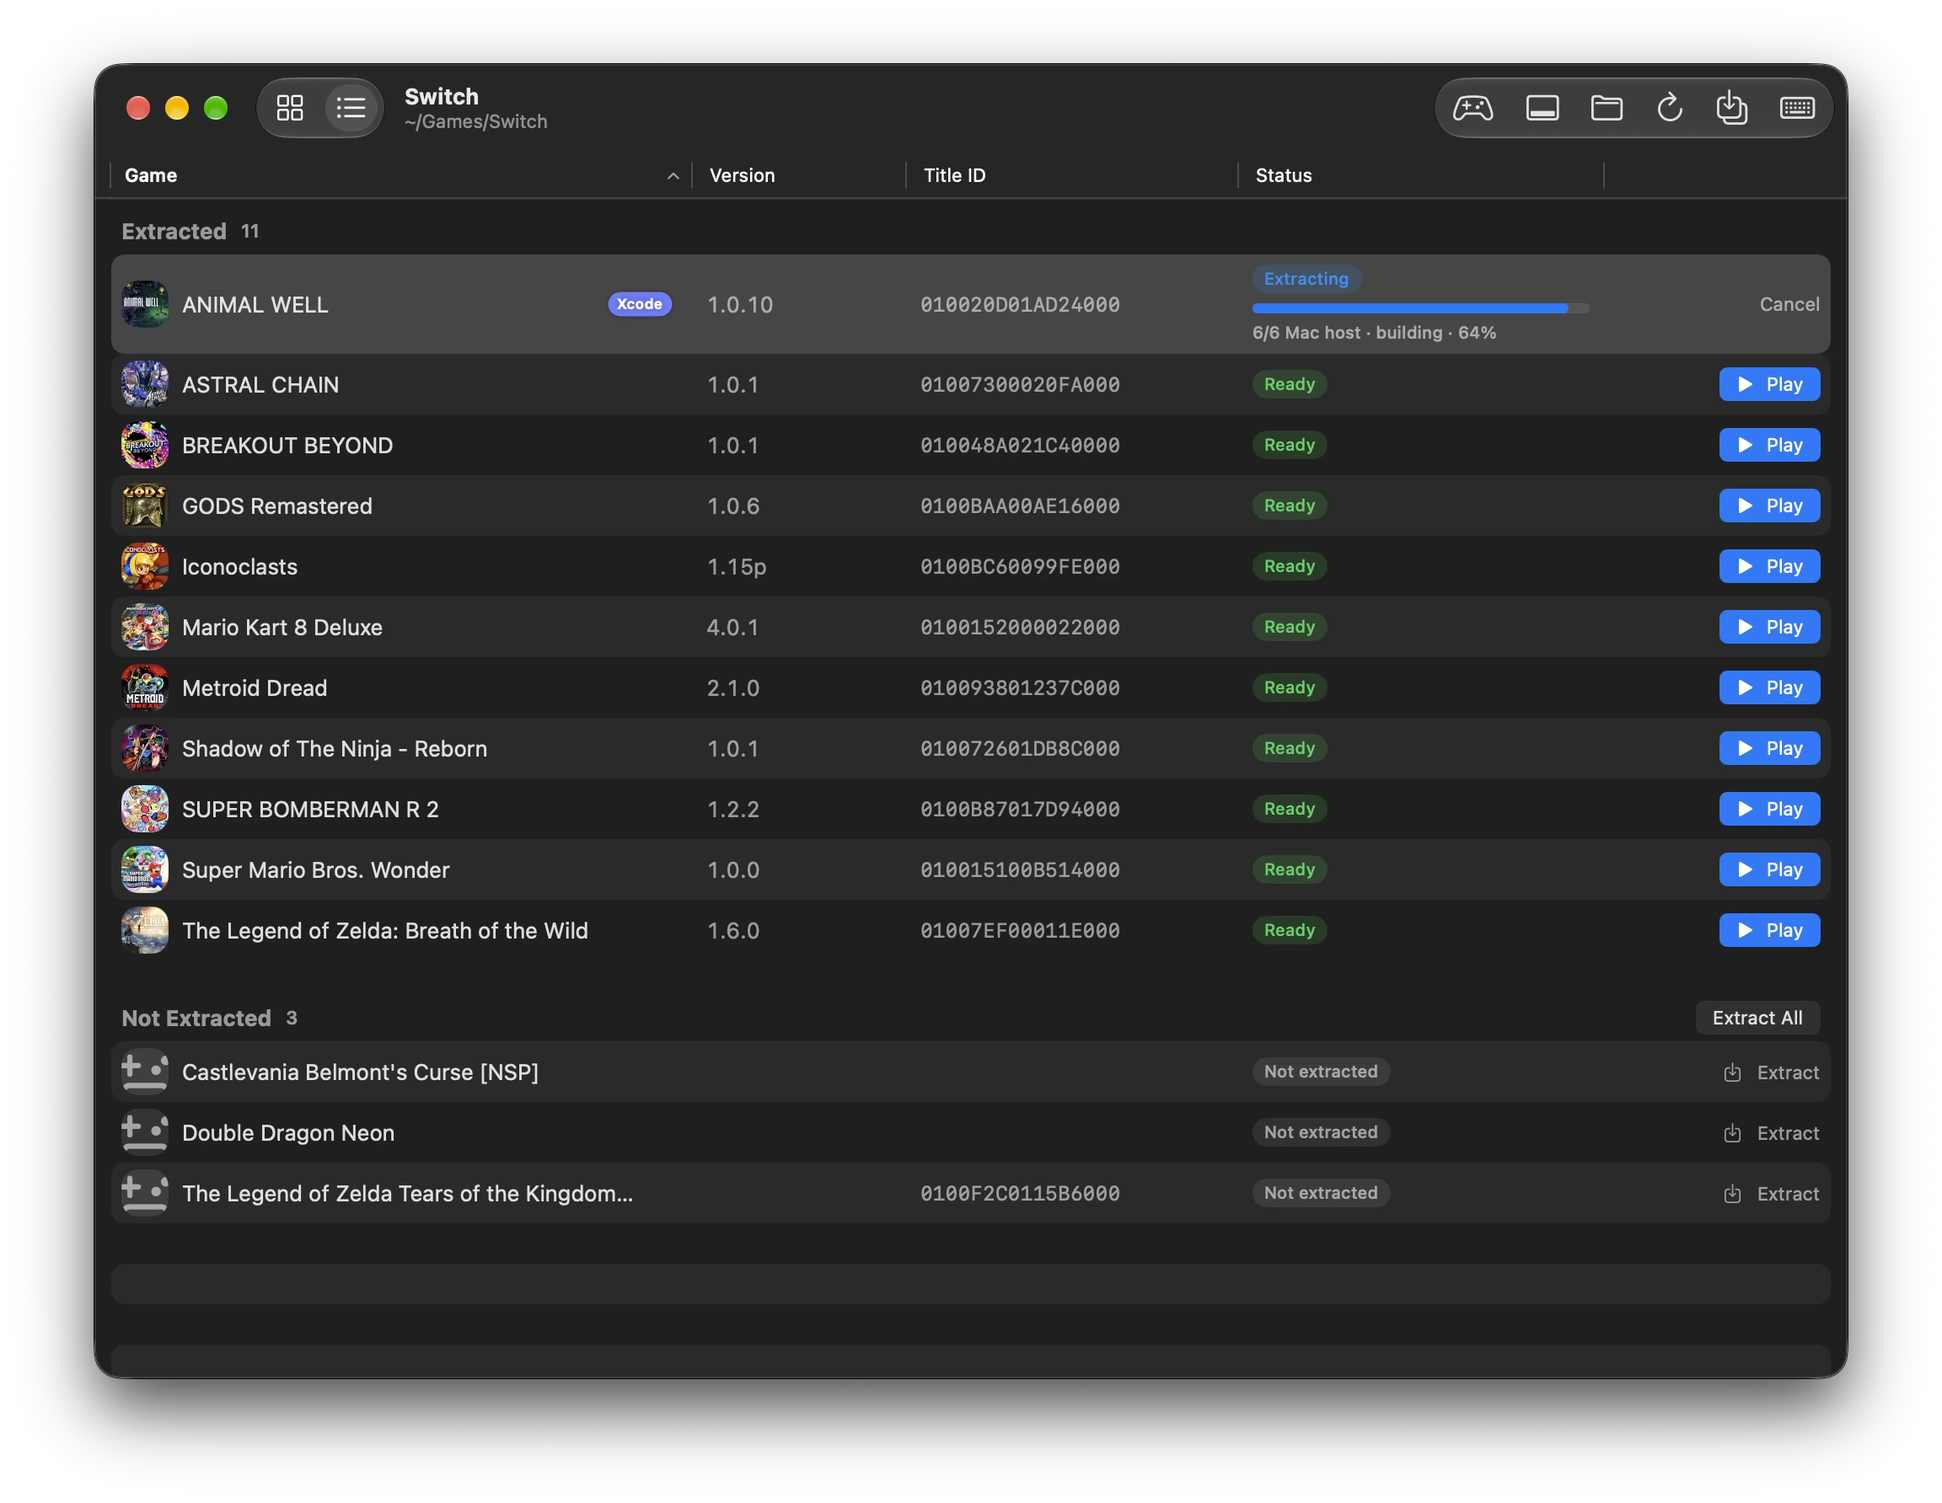
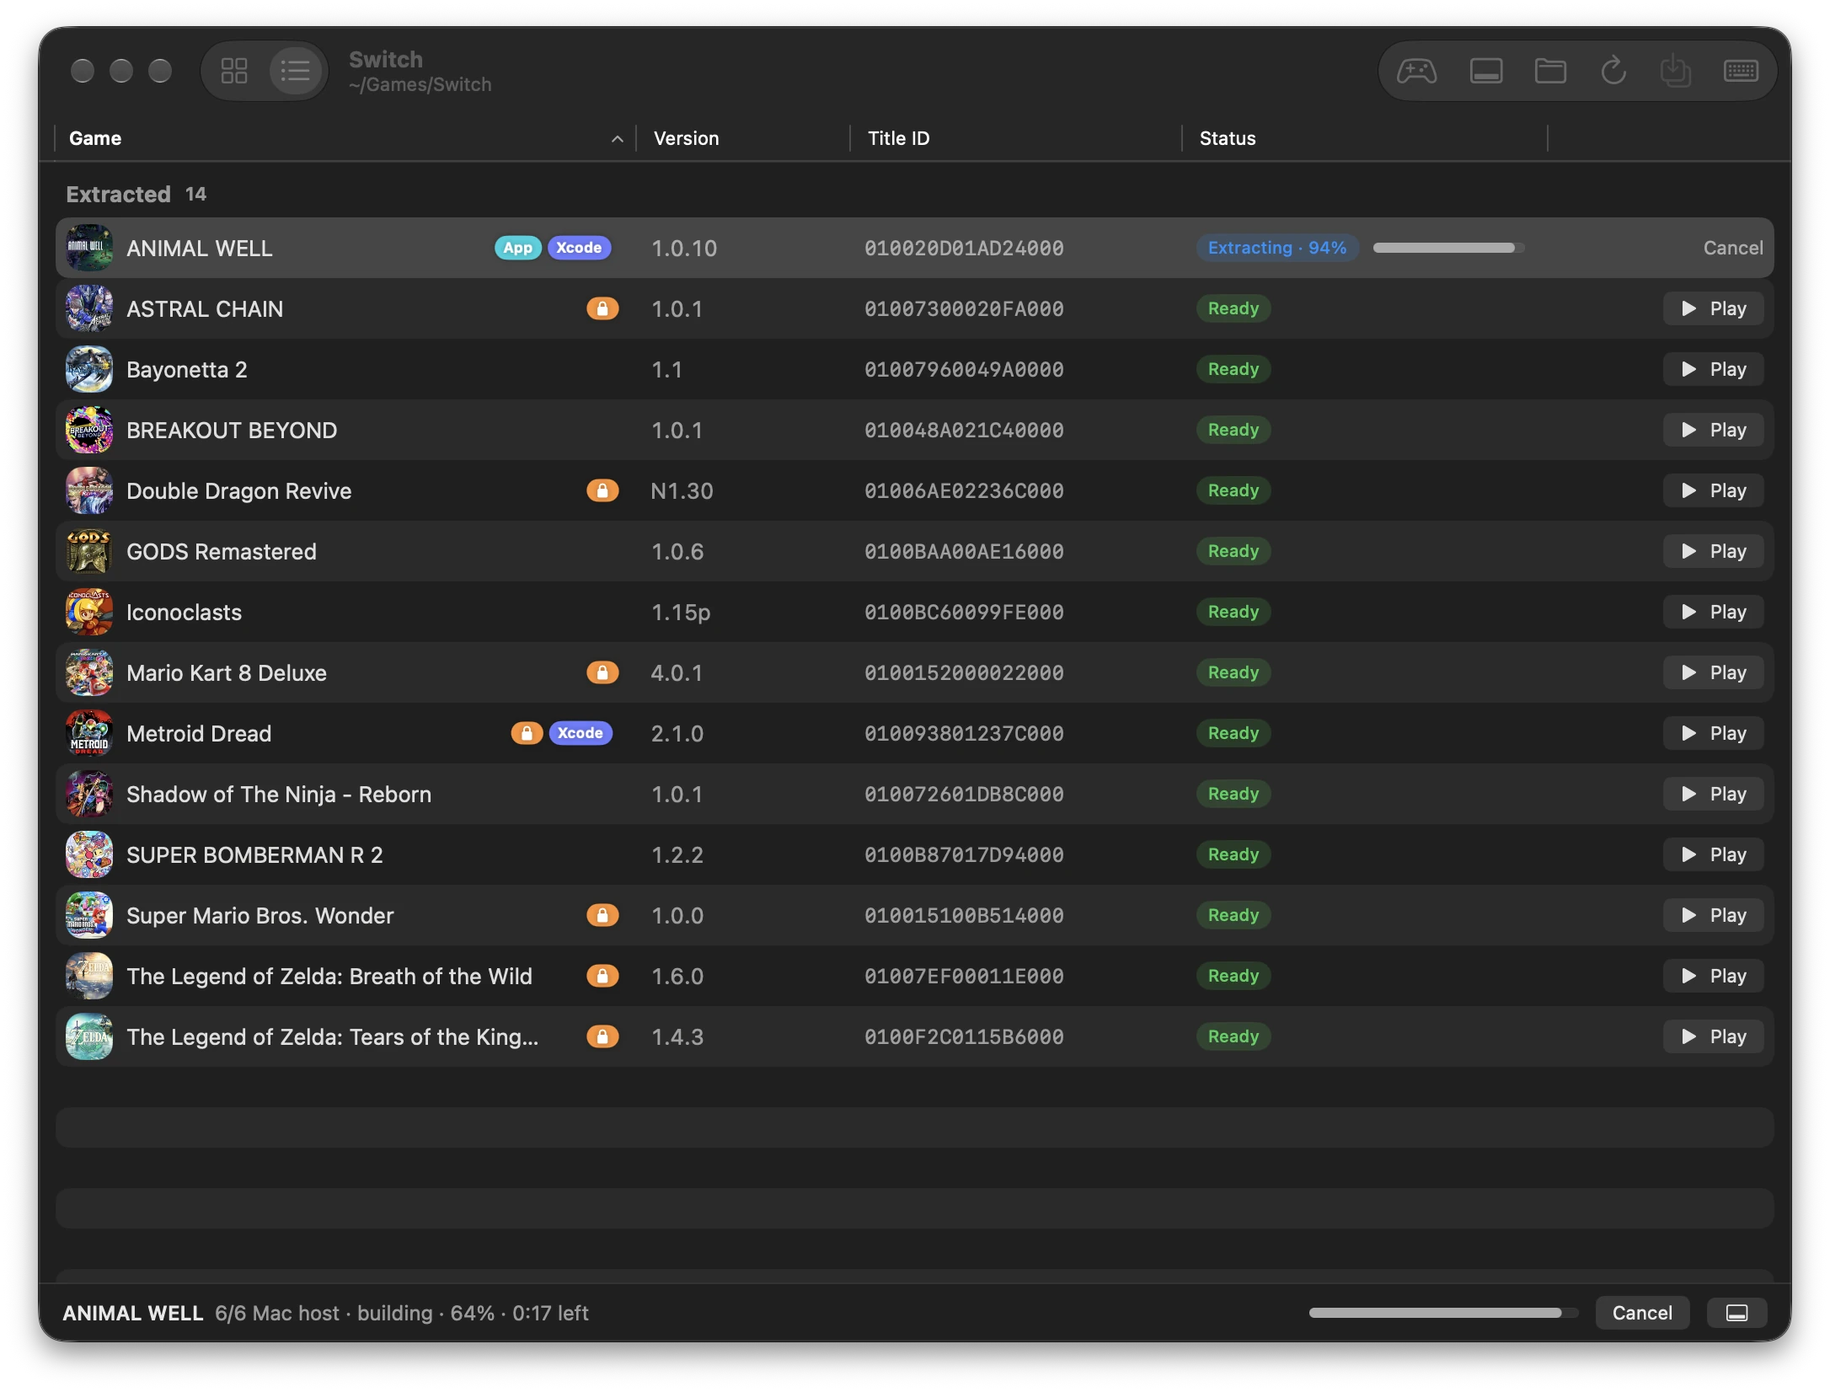
Show build progress without the log or taller cards
A build pushed its card's row down as the progress bar and stage text appeared, and with the log hidden there was no stage or time left to see at all. The bar now sits on the artwork with the percentage in the badge, and a status bar takes the log header's place while the log is hidden. That makes a hidden log a fine default for new players: a failure still opens it.

diff --git a/Packages/NXPlayKit/Sources/NXPlayKit/Views/GameCard.swift b/Packages/NXPlayKit/Sources/NXPlayKit/Views/GameCard.swift
@@ -10,6 +10,12 @@ struct GameCard: View {
         VStack(alignment: .leading, spacing: 8) {
             GameIcon(url: game.iconURL)
                 .overlay(alignment: .topTrailing) { IconBadges(game: game).padding(6) }
+                // on the artwork, so a build doesn't make the card taller
+                .overlay(alignment: .bottom) {
+                    if let job, job.showsProgress {
+                        IconProgressBar(fraction: job.progressFraction)
+                    }
+                }
             VStack(alignment: .leading, spacing: 2) {
                 Text(game.name)
                     .font(.headline)
@@ -34,7 +40,7 @@ struct GameCard: View {
         .onTapGesture(count: 2) { library.primaryAction(for: game) }
         .simultaneousGesture(TapGesture().onEnded { library.selection = game.id })
         .contextMenu { GameActions(game: game) }
-        .help(game.folder.path)
+        .help(job.flatMap { $0.showsProgress ? $0.progressText : nil } ?? game.folder.path)
     }
 
     private var subtitle: String {
@@ -49,15 +55,12 @@ private struct GameStatus: View {
     let job: Job?
 
     var body: some View {
-        VStack(alignment: .leading, spacing: 6) {
-            HStack(spacing: 6) {
-                GameBadge(game: game, job: job)
-                Spacer(minLength: 4)
-                GameActionButton(game: game, job: job)
-            }
-            .controlSize(.small)
-            JobProgress(job: job)
+        HStack(spacing: 6) {
+            GameBadge(game: game, job: job)
+            Spacer(minLength: 4)
+            GameActionButton(game: game, job: job)
         }
+        .controlSize(.small)
     }
 }
 
@@ -66,18 +69,26 @@ struct GameBadge: View {
     let game: Game
     let job: Job?
 
+    /// " · 64%", the whole build's, while one runs: the card's bar has no text of its own.
+    private var percent: String {
+        guard let job, job.status == .running, job.showsProgress, job.progress != nil else {
+            return ""
+        }
+        return " · \(Int((job.progressFraction * 100).rounded()))%"
+    }
+
     var body: some View {
         switch (job?.status, job?.kind) {
         case (.running?, .play?):
-            Badge(text: job?.isBuilding == true ? "Building" : "Running", color: .green)
+            Badge(text: job?.isBuilding == true ? "Building\(percent)" : "Running", color: .green)
         case (.running?, .ipa?):
-            Badge(text: "Building IPA", color: .blue)
+            Badge(text: "Building IPA\(percent)", color: .blue)
         case (.running?, .macApp?):
-            Badge(text: "Making App", color: .blue)
+            Badge(text: "Making App\(percent)", color: .blue)
         case (.running?, .install?):
-            Badge(text: "Installing", color: .blue)
+            Badge(text: "Installing\(percent)", color: .blue)
         case (.running?, _):
-            Badge(text: "Extracting", color: .blue)
+            Badge(text: "Extracting\(percent)", color: .blue)
         case (.queued?, _):
             Badge(text: "Queued", color: .secondary)
         case (.failed?, _):
@@ -136,25 +147,44 @@ struct GameActionButton: View {
     }
 }
 
-/// A build's progress and stage, while one runs.
+/// A build's progress and stage, while one runs (Console Mode, under the title).
 struct JobProgress: View {
     let job: Job?
 
     var body: some View {
-        if let job, job.status.isActive, job.kind != .play || job.isBuilding {
+        if let job, job.showsProgress {
             VStack(alignment: .leading, spacing: 2) {
-                ProgressView(value: job.status == .queued ? 0 : job.progress?.fraction ?? 0)
+                ProgressView(value: job.progressFraction)
                     .controlSize(.small)
-                Text(job.status == .queued ? "Waiting for the current build" : stageText(job))
+                Text(job.progressText)
                     .font(.caption2)
                     .foregroundStyle(.secondary)
                     .lineLimit(1)
             }
         }
     }
+}
 
-    private func stageText(_ job: Job) -> String {
-        job.progress?.summary ?? "Starting…"
+/// A thin bar along the bottom of a game's artwork, inside its rounded corners, on a dark track that reads over any art.
+struct IconProgressBar: View {
+    let fraction: Double
+
+    var body: some View {
+        GeometryReader { geometry in
+            ZStack(alignment: .leading) {
+                Capsule().fill(.black.opacity(0.55))
+                Capsule().fill(Color.accentColor)
+                    .frame(width: max(6, geometry.size.width * min(max(fraction, 0), 1)))
+                    .animation(.easeOut(duration: 0.3), value: fraction)
+            }
+        }
+        .frame(height: 6)
+        .padding(.horizontal, 10)
+        .padding(.bottom, 10)
+        .shadow(color: .black.opacity(0.4), radius: 2)
+        .accessibilityElement()
+        .accessibilityLabel("Build progress")
+        .accessibilityValue("\(Int((fraction * 100).rounded())) percent")
     }
 }
 

diff --git a/Packages/NXPlayKit/Sources/NXPlayKit/Views/BuildStatusBar.swift b/Packages/NXPlayKit/Sources/NXPlayKit/Views/BuildStatusBar.swift
@@ -1,0 +1,59 @@
+import SwiftUI
+
+/// A slim bar under the games while builds run and the log is hidden: what the log header would say. One build: its
+/// game, stage and Cancel. Several: how many, their average progress (the Dock's), and the running one's stage.
+/// Clicking the text selects that game; the button shows the log.
+struct BuildStatusBar: View {
+    let jobs: [Job]
+    @Environment(Library.self) private var library
+
+    var body: some View {
+        let current = jobs[0]  // a running one, when any runs (Library.buildingJobs)
+        HStack(spacing: 10) {
+            Button {
+                library.selection = current.game.id
+            } label: {
+                HStack(spacing: 6) {
+                    Text(title).fontWeight(.semibold)
+                    Text(current.progressText).foregroundStyle(.secondary)
+                }
+                .lineLimit(1)
+                .truncationMode(.middle)
+                .contentShape(Rectangle())
+            }
+            .buttonStyle(.plain)
+            .help("Select \(current.game.name)")
+            Spacer(minLength: 8)
+            ProgressView(
+                value: jobs.count == 1 ? current.progressFraction : library.buildFraction ?? 0
+            )
+            .frame(width: 160)
+            if jobs.count == 1 {
+                Button("Cancel") { current.cancel() }
+            }
+            Button {
+                withAnimation(.snappy(duration: 0.2)) { library.showsLog = true }
+                library.selection = current.game.id
+            } label: {
+                Label("Show Log", systemImage: "rectangle.bottomthird.inset.filled")
+            }
+            .labelStyle(.iconOnly)
+            .help("Show the log (⇧⌘Y)")
+        }
+        .font(.callout)
+        .controlSize(.small)
+        .padding(.horizontal, 14)
+        .padding(.vertical, 7)
+        .background(.bar)
+    }
+
+    /// The game, or "3 builds · 2 waiting · ANIMAL WELL".
+    private var title: String {
+        guard jobs.count > 1 else { return jobs[0].game.name }
+        let waiting = jobs.filter { $0.status == .queued }.count
+        let parts: [String?] = [
+            "\(jobs.count) builds", waiting > 0 ? "\(waiting) waiting" : nil, jobs[0].game.name,
+        ]
+        return parts.compactMap(\.self).joined(separator: " · ")
+    }
+}

diff --git a/Packages/NXPlayKit/Sources/NXPlayKit/Library.swift b/Packages/NXPlayKit/Sources/NXPlayKit/Library.swift
@@ -136,7 +136,11 @@ public final class Library {
         allowOtherMetal = defaults.bool(forKey: Keys.allowOtherMetal)
         language = defaults.string(forKey: Keys.language) ?? ""
         teamID = defaults.string(forKey: Keys.team) ?? ""
-        showsLog = defaults.object(forKey: Keys.showsLog) as? Bool ?? true
+        // hidden for a new player (the status bar shows builds; a failure opens it); someone who chose a games folder
+        // before this default changed keeps the log they had
+        showsLog =
+            defaults.object(forKey: Keys.showsLog) as? Bool
+            ?? (defaults.string(forKey: Keys.root) != nil)
         logHeight = defaults.object(forKey: Keys.logHeight) as? Double ?? 240
         viewStyle =
             defaults.string(forKey: Keys.viewStyle).flatMap(ViewStyle.init(rawValue:)) ?? .grid
@@ -243,6 +247,22 @@ public final class Library {
     }
 
     public func job(for game: Game) -> Job? { jobs[game.id] }
+
+    /// The builds to show progress for (Job.showsProgress), the running ones first, then by game.
+    public var buildingJobs: [Job] {
+        jobs.values.filter(\.showsProgress).sorted {
+            ($0.status == .running ? 0 : 1, $0.game.name) < (
+                $1.status == .running ? 0 : 1, $1.game.name
+            )
+        }
+    }
+
+    /// 0…1 across the builds (their average), nil when none runs: the Dock's and the status bar's.
+    public var buildFraction: Double? {
+        let building = buildingJobs
+        guard !building.isEmpty else { return nil }
+        return building.reduce(0) { $0 + $1.progressFraction } / Double(building.count)
+    }
 
     public func isBusy(_ game: Game) -> Bool { jobs[game.id]?.status.isActive == true }
 

diff --git a/Packages/NXPlayKit/Tests/NXPlayKitTests/LibraryTests.swift b/Packages/NXPlayKit/Tests/NXPlayKitTests/LibraryTests.swift
@@ -227,12 +227,19 @@ import Testing
     @Test func theLogStateIsRemembered() {
         let defaults = defaults()
         let first = Library(defaults: defaults, isScreenshot: true)
-        #expect(first.showsLog && first.logHeight == 240 && first.viewStyle == .grid)  // defaults
+        #expect(!first.showsLog && first.logHeight == 240 && first.viewStyle == .grid)  // defaults
+        first.showsLog = true
         first.showsLog = false
         first.logHeight = 333
         first.viewStyle = .list
 
         let next = Library(defaults: defaults, isScreenshot: true)
         #expect(!next.showsLog && next.logHeight == 333 && next.viewStyle == .list)
+    }
+
+    @Test func theLogStaysShownForSomeoneWhoAlreadyHadIt() {
+        let defaults = defaults()
+        defaults.set("/games", forKey: Library.Keys.root)  // chose a folder before the default changed
+        #expect(Library(defaults: defaults, isScreenshot: true).showsLog)
     }
 }

diff --git a/Packages/NXPlayKit/Sources/NXPlayKit/Views/GameList.swift b/Packages/NXPlayKit/Sources/NXPlayKit/Views/GameList.swift
@@ -38,9 +38,15 @@ struct GameList: View {
                 .width(min: 130, ideal: 150)
                 TableColumn("Status", value: \.statusRank) { row in
                     let job = library.job(for: row.game)
-                    VStack(alignment: .leading, spacing: 3) {
+                    // the bar beside the badge, so a row stays one line tall while a build runs
+                    HStack(spacing: 8) {
                         GameBadge(game: row.game, job: job)
-                        JobProgress(job: job)
+                        if let job, job.showsProgress {
+                            ProgressView(value: job.progressFraction)
+                                .controlSize(.small)
+                                .frame(minWidth: 40, maxWidth: 90)
+                                .help(job.progressText)
+                        }
                     }
                     .padding(.vertical, 2)
                 }

diff --git a/Packages/NXPlayKit/Sources/NXPlayKit/Model/Job.swift b/Packages/NXPlayKit/Sources/NXPlayKit/Model/Job.swift
@@ -58,6 +58,20 @@ public final class Job: Identifiable {
         status == .running && progress.map { !$0.isLastStageDone } == true
     }
 
+    /// Build work to show progress for: an extraction, rebuild, IPA, app or install, queued or running, or a play
+    /// while it builds (not the game itself).
+    public var showsProgress: Bool {
+        status.isActive && (kind != .play || status == .queued || isBuilding)
+    }
+
+    /// The whole build done so far, 0 while it waits its turn.
+    public var progressFraction: Double { status == .queued ? 0 : progress?.fraction ?? 0 }
+
+    /// "4/6 shader split · splitting · 69% · 0:04 left"
+    public var progressText: String {
+        status == .queued ? "Waiting for the current build" : progress?.summary ?? "Starting…"
+    }
+
     /// A line from NX Play itself in the run's log (the save backup's).
     func note(_ line: String) {
         log.append([line])

diff --git a/Packages/NXPlayKit/Sources/NXPlayKit/Views/DockProgress.swift b/Packages/NXPlayKit/Sources/NXPlayKit/Views/DockProgress.swift
@@ -15,14 +15,7 @@ struct DockProgress: View {
 
     /// 0…1 across the running builds, in whole percents (fewer Dock redraws); nil when none runs.
     private var fraction: Double? {
-        let building = library.jobs.values.filter { job in
-            job.status.isActive && (job.kind != .play || job.status == .queued || job.isBuilding)
-        }
-        guard !building.isEmpty else { return nil }
-        let total = building.reduce(0.0) { sum, job in
-            sum + (job.status == .queued ? 0 : job.progress?.fraction ?? 0)
-        }
-        return (total / Double(building.count) * 100).rounded() / 100
+        library.buildFraction.map { ($0 * 100).rounded() / 100 }
     }
 }
 

diff --git a/Packages/NXPlayKit/Sources/NXPlayKit/Views/LogSplit.swift b/Packages/NXPlayKit/Sources/NXPlayKit/Views/LogSplit.swift
@@ -28,6 +28,11 @@ struct LogSplit: View {
                     LogPanel()
                         .frame(height: height)
                         .transition(.move(edge: .bottom))
+                } else if !library.buildingJobs.isEmpty {
+                    // the log header's progress, while the log is hidden
+                    Divider()
+                    BuildStatusBar(jobs: library.buildingJobs)
+                        .transition(.move(edge: .bottom).combined(with: .opacity))
                 }
             }
         }

diff --git a/Packages/NXPlayKit/Sources/NXPlayKit/Views/GameGrid.swift b/Packages/NXPlayKit/Sources/NXPlayKit/Views/GameGrid.swift
@@ -5,7 +5,7 @@ struct GameGrid: View {
     @Environment(Library.self) private var library
 
     private let columns = [
-        GridItem(.adaptive(minimum: 168, maximum: 220), spacing: 16, alignment: .top)
+        GridItem(.adaptive(minimum: 180, maximum: 220), spacing: 16, alignment: .top)
     ]
 
     var body: some View {

diff --git a/CHANGELOG.md b/CHANGELOG.md
@@ -10,7 +10,15 @@ User-visible changes to NX Play, `nxplay` and the setup. The format follows [Kee
 
 ### Changed
 
+- **A build no longer makes its card taller:** its progress shows as a thin bar along the bottom of the game's artwork, and the badge shows the percentage ("Extracting · 64%"). The stage is in the card's tooltip. In the list, the bar sits beside the badge, so the row stays one line.
+- Cards are a little wider at their narrowest: 180 points instead of 168, so the badge and the button fit side by side more easily.
+- **The log starts hidden for new users:** the status bar shows what's building, and a failed build opens the log on its game. If you already use NX Play, the log stays as you left it.
+- **A status bar while the log is hidden** shows what's building: the game, its stage, the time left and Cancel. With several builds, it shows how many, how many are waiting, and their average progress. Click it to select the game, or show the log from it.
 - **Build progress comes from nxnative's front-end interface:** the build script's `--progress json` events ([docs/frontends.md](https://github.com/seedds/nxnative/blob/main/docs/frontends.md)). NX Play no longer reads the text it prints for people. The progress bar, the card and the Dock follow exact stage fractions, and now also show the time left in a stage. The log shows the same lines as before. In a terminal, `nxplay` still shows the build's bar.
+
+### Fixed
+
+- **Updates retry opening the downloaded DMG** when macOS's disk service is briefly busy ("Resource temporarily unavailable"), and keep trying to detach it, so no image stays mounted.
 
 ## 1.7.2 — 2026-10-28
 

diff --git a/README.md b/README.md
@@ -69,7 +69,7 @@ Switch/
     └── ….nsz
 ```
 
-Extracted games show their icons and a **Play** button; the others have **Extract**, and **Extract All** builds them one after another. The panel at the bottom shows the selected game's output. The toolbar switches between the grid and a sortable list (View › as Grid ⌘1 / as List ⌘2).
+Extracted games show their icons and a **Play** button; the others have **Extract**, and **Extract All** builds them one after another. A status bar at the bottom shows what's building. The log, which starts hidden (View › Show Log, ⇧⌘Y), shows the selected game's output, and opens by itself when a build fails. The toolbar switches between the grid and a sortable list (View › as Grid ⌘1 / as List ⌘2).
 
 ![The library as a list, with each game's version, title ID and status](docs/list.webp)
 
